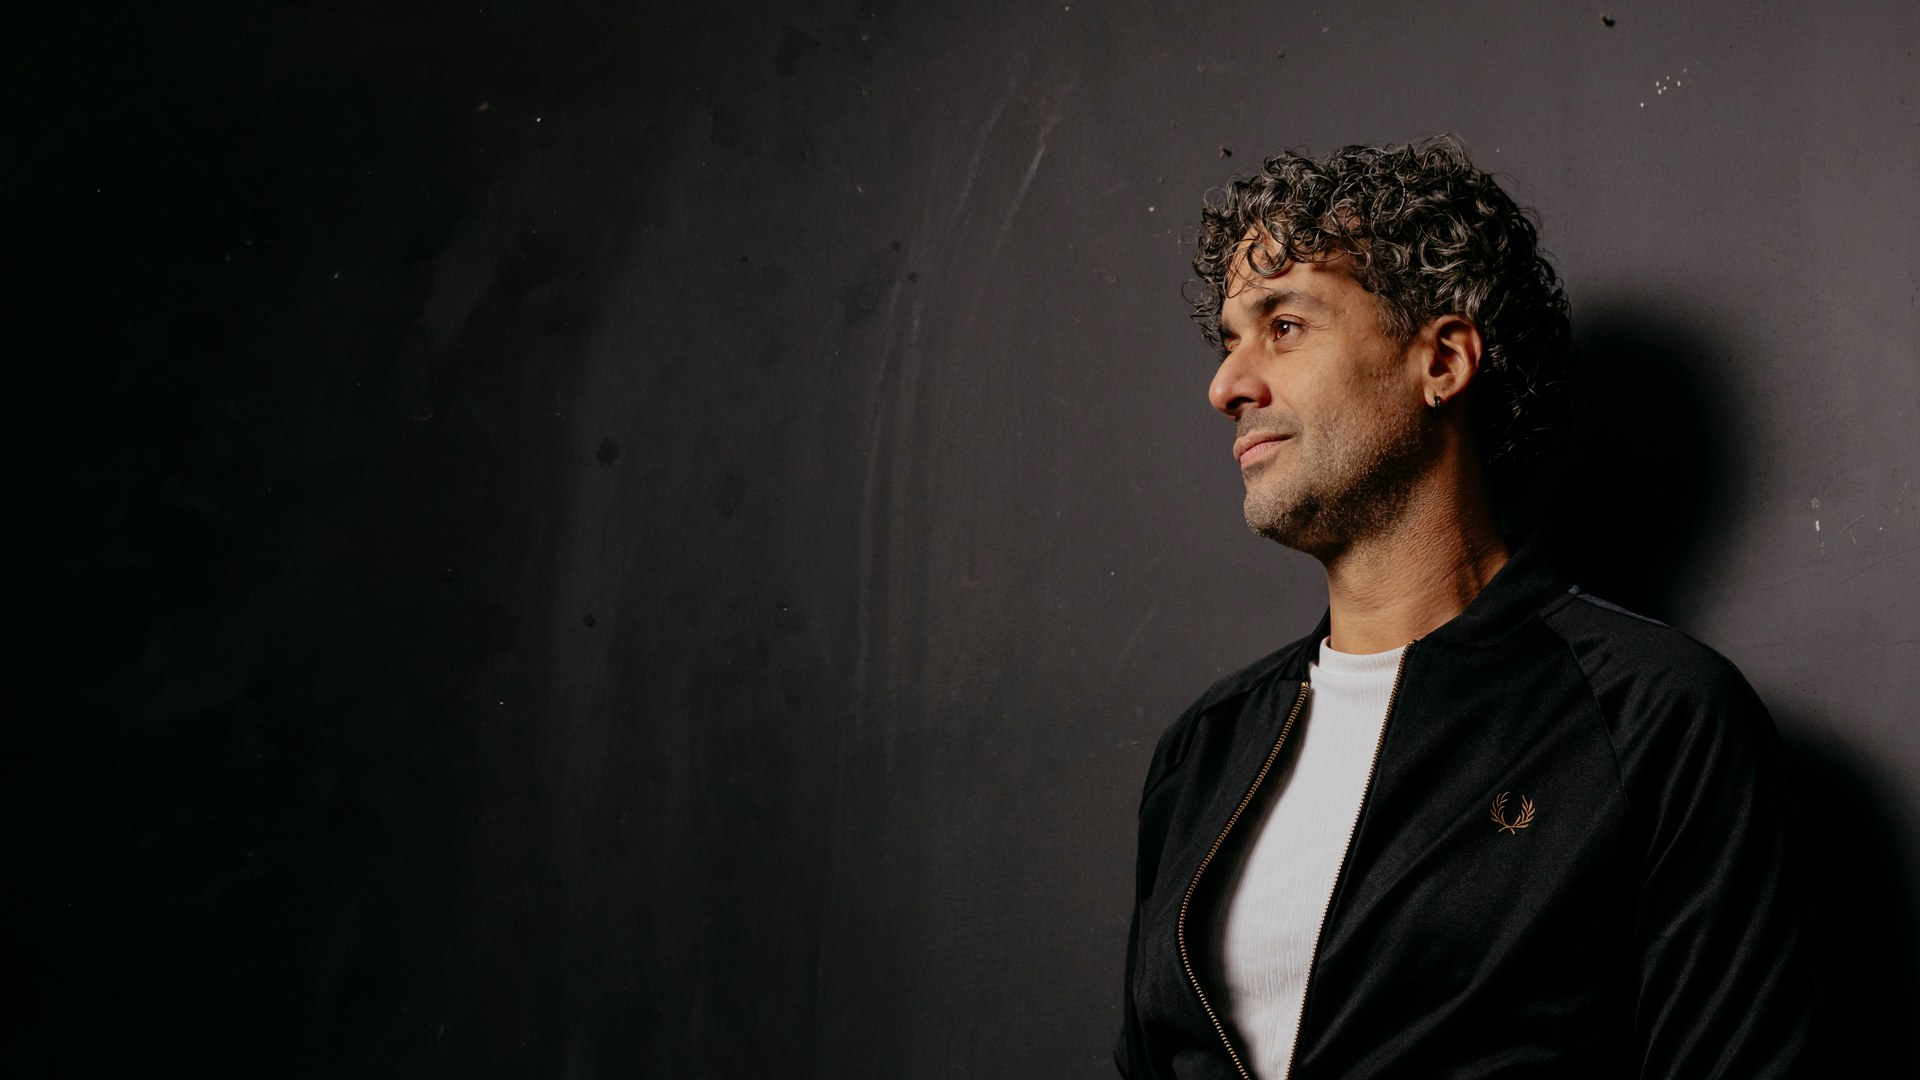
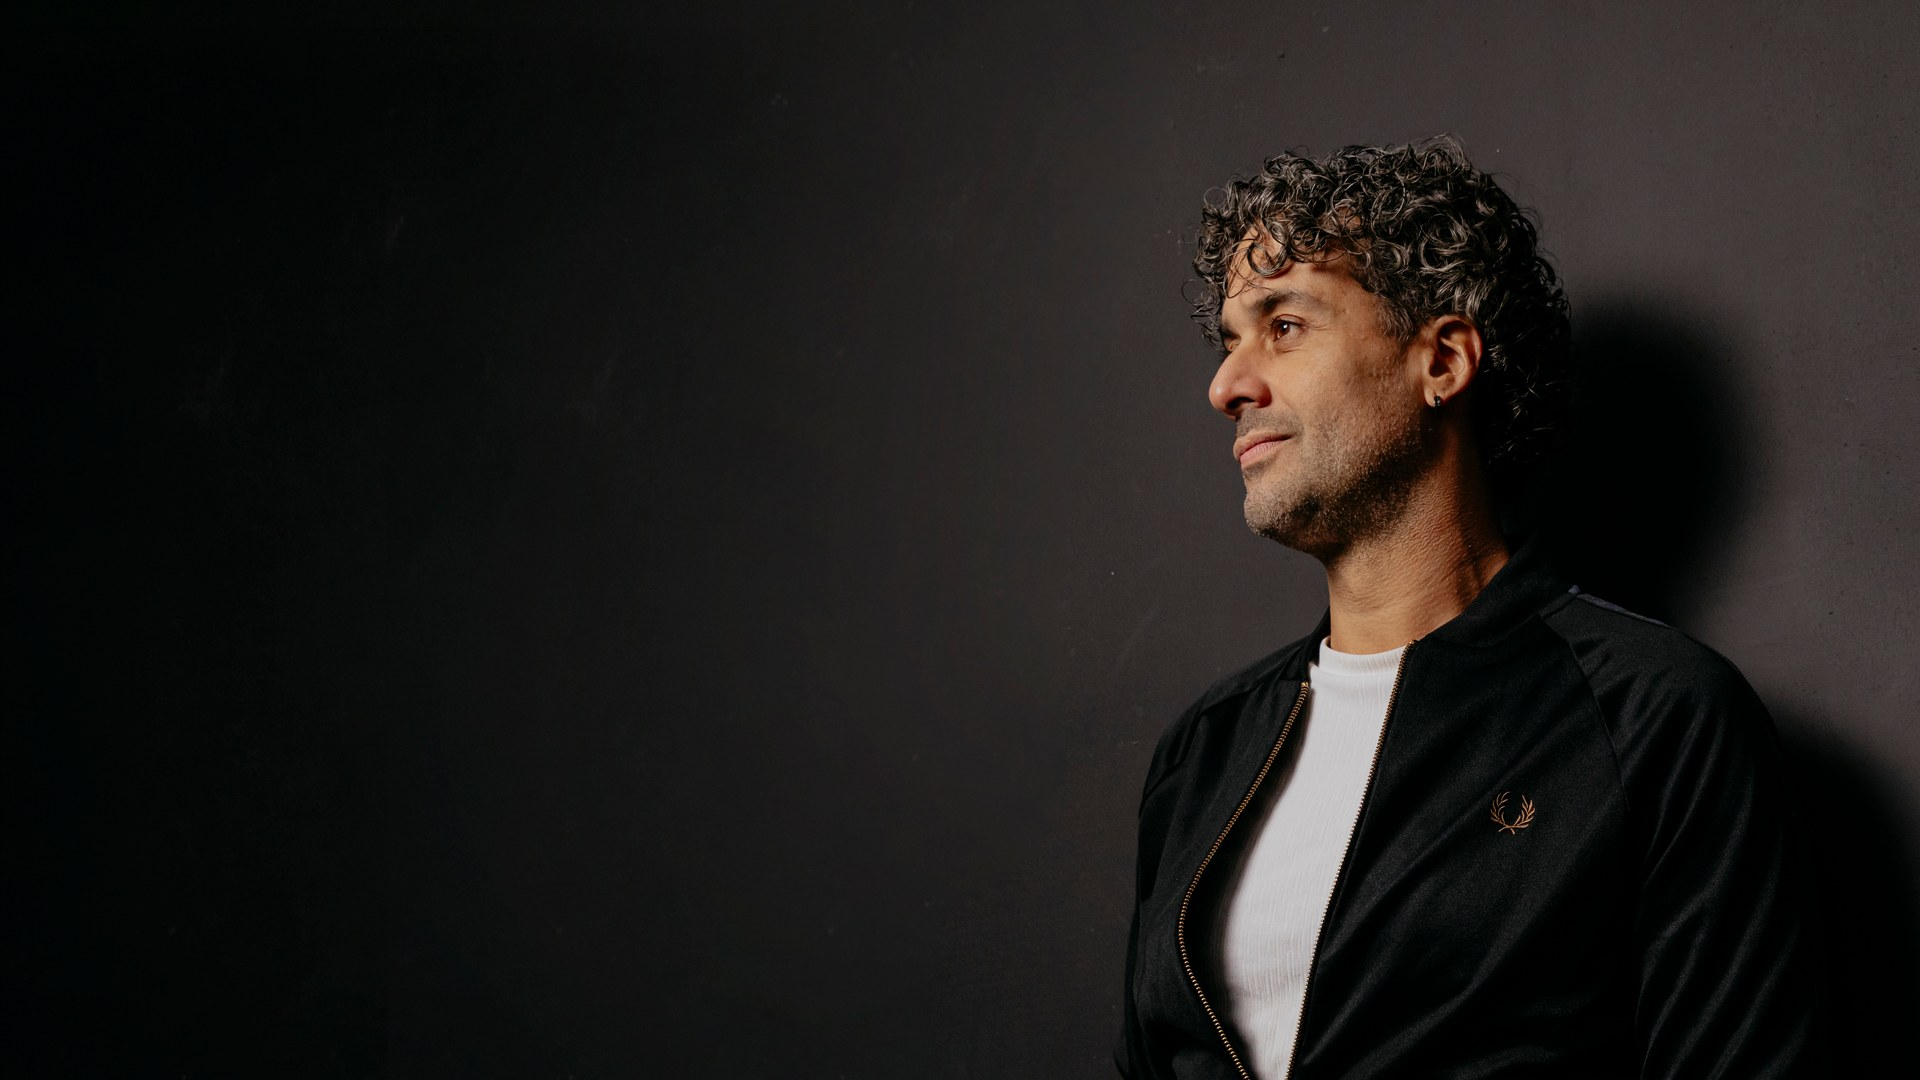
feat(home): hero is Joyce van Doorn's own edit of NDSM kade -18 (v2)
VP, 3 Nov 2026: "use this photo for hero image on homepage":
Website/01. Home/Edited by Joyce_Osman - NDSM kade - JVDPhotography -18
v2.jpg (6000 x 4002, Adobe RGB, Copyright Joyce van Doorn). It is the
same frame as the 2-11 retouch with a darker, cleaner wall.
- Same framing as before: 16:9 from the top-left 4320 x 2430, ending
  above the jacket's zip pull (which sits at the same place, y about
  2510-2630). Converted to sRGB (relative colorimetric + BPC), 1920 x
  1080, q88 progressive, EXIF Artist/Copyright Joyce van Doorn.
- Same path (/images/home-hero-ndsm-kade.jpg), alt text and Studio
  default, so the June's Night share image follows.

Claude-Session: https://claude.ai/code/session_01UhA7rZPdphe6urSyHxmYXi

Changed region(s): [[0.9375, 0.1222, 1.0, 0.55]]

diff --git a/src/app/(public)/page.tsx b/src/app/(public)/page.tsx
@@ -197,7 +197,8 @@ export default async function HomePage() {
           {/* Landscape hero — full-bleed width, masked reveal, quiet ambient
               drift retained. 2-11 (VP): the photograph is now the NDSM kade
               portrait by Joyce van Doorn (JVDPhotography, 29-10-2026), in
-              the client's retouched edit (FOTO'S/Edited/Homepage, 2-11),
+              her own edit "-18 v2" (Website/01. Home, 3-11; it replaces the
+              2-11 retouch from FOTO'S/Edited/Homepage), same frame,
               cropped to 16:9 from the top-left 4320 × 2430 of the 6000 ×
               4002 frame. VP: the frame must not show the zip, so the crop
               ends above the jacket's zip pull (about y 2510); the dark wall
